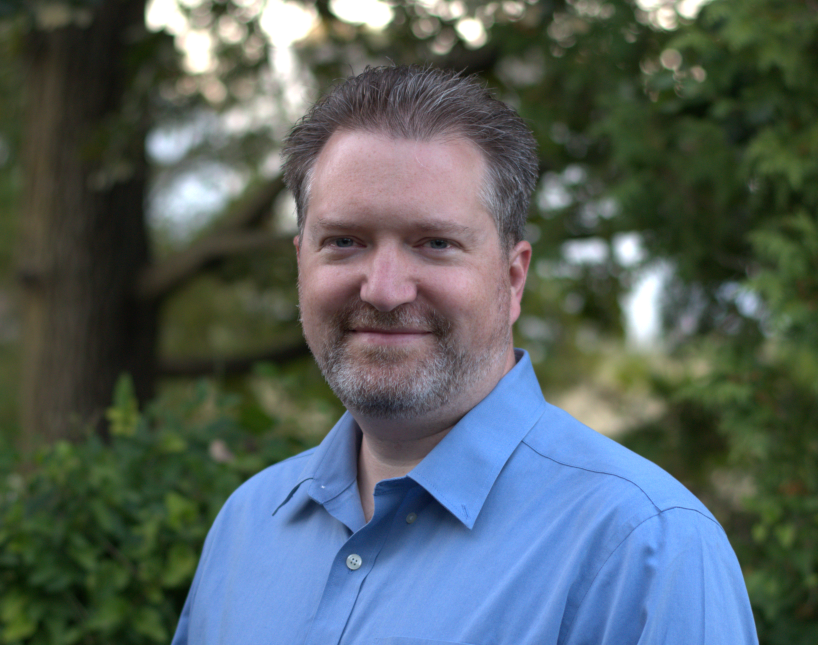
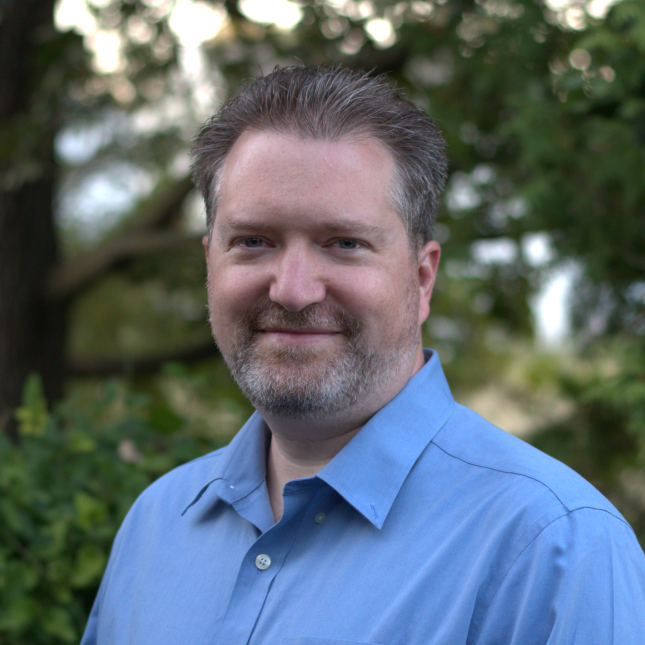
Content updates

diff --git a/ui/jmbsoftwaresolutions/app/page.tsx b/ui/jmbsoftwaresolutions/app/page.tsx
@@ -1,58 +1,93 @@
-
 import { AuthButton } from "@/components/auth/auth-button";
-import Image from 'next/image';
+import Image from "next/image";
 export default function Home() {
   return (
-    <main className="min-h-screen flex flex-col items-center">
-      <div className="flex-1 w-full flex flex-col items-center">
-        <nav className="w-full flex justify-center border-b border-b-foreground/10 h-16">
-          <div className="w-full flex justify-between items-center p-3 px-5 text-sm">
-            <div className="flex gap-5 items-center font-semibold text-lg md:text-4xl">
-              JMB Software Solutions
+    <main className="flex min-h-screen flex-col items-center p-4 mt-10">
+      <Image
+        className="rounded-full display-block"
+        src="/images/headshot.png"
+        alt="Headshot"
+        width={200}
+        height={200}
+      />
 
-            </div>
-            <AuthButton />
-          </div>
-        </nav>
-
-        <div className="flex-1 w-full flex justify-center">
-          <div className="w-full flex">
-            {/* Left sidebar / menu */}
-            <aside className="hidden md:block w-64 shrink-0 bg-background/50 p-4 static" aria-label="Primary sidebar">
-              <nav className="flex flex-col gap-2" aria-label="Main menu">
-                <a href="#" className="text-sm font-medium px-2 py-2 rounded hover:bg-foreground/5">Dashboard</a>
-                <a href="#" className="text-sm font-medium px-2 py-2 rounded hover:bg-foreground/5">Projects</a>
-                <a href="#" className="text-sm font-medium px-2 py-2 rounded hover:bg-foreground/5">Services</a>
-                <a href="#" className="text-sm font-medium px-2 py-2 rounded hover:bg-foreground/5">Contact</a>
-              </nav>
-            </aside>
-
-            <main className="flex flex-col mx-14 gap-6 px-4 w-full mt-10 ">
-              <div>
-                <Image
-                  className="rounded-full border float-right display-block"
-                  src="/images/headshot.png" // Path to your image
-                  alt="Headshot" // Essential for accessibility and SEO
-                  width={200} // Desired width
-                  height={200} // Desired height
-                />
-                <h1 className="text-xl font-bold">Welcome to JMB Software Solutions</h1>
-                <p className="text-lg text-muted-foreground">
-                  Your trusted partner for custom software development and IT solutions.
-
-                </p>
-
-              </div>
-
-
-            </main>
-          </div>
+      <h1 className="text-7xl">James Bales</h1>
+      <p className="mt-4 text-2xl  text-muted-foreground">
+        Software Engineer | Full Stack Developer
+      </p>
+      <p className="mt-2 text-xl">Reliable software solutions</p>
+      <p className="mt-2 text-xl">20 Years of Experience</p>
+      <p className="mt-2 text-xl">Dependable Results</p>
+      <h1 className="text-2xl mt-10 font-semibold">Skills & Technologies</h1>
+      <div className="grid grid-flow-col grid-rows-[100px_1fr] mt-6 gap-60 content-around">
+        <div>
+          <h1 className="text-xl font-semibold">Languages</h1>
+          <ul className="list-inside mt-2 list-none">
+            <li>JavaScript / TypeScript</li>
+            <li>Python</li>
+            <li>C#</li>
+            <li>C/C++</li>
+            <li>Java</li>
+            <li>PHP</li>
+            <li>HTML & CSS</li>
+            <li>SQL</li>
+          </ul>
         </div>
-
-        <footer className="w-full flex items-center justify-center border-t mx-auto text-center text-xs gap-8 py-16">
-
-
-        </footer>
+        <div>
+          <h1 className="text-xl font-semibold">Frameworks</h1>
+          <ul className="list-inside mt-2 list-none">
+            <li>React</li>
+            <li>Next.js</li>
+            <li>Nest.js</li>
+            <li>JQuery</li>
+            <li>Django</li>
+            <li>.NET Framework/.NET 5+</li>
+            <li>ASP.NET</li>
+            <li>Entity Framwork</li>
+          </ul>
+        </div>
+        <div>
+          <h1 className="text-xl font-semibold">Databases</h1>
+          <ul className="list-inside mt-2 list-none">
+            <li>MySQL</li>
+            <li>SQL Server</li>
+            <li>Oracle</li>
+            <li>Postgres</li>
+          </ul>
+        </div>
+        <div>
+          <h1 className="text-xl font-semibold">Hosting</h1>
+          <ul className="list-inside mt-2 list-none ">
+            <li>Docker</li>
+            <li>Kubernetes</li>
+            <li>Openshift</li>
+            <li>IIS</li>
+            <li>Weblogic</li>
+            <li>Apache</li>
+            <li>Apache Tomcat</li>
+            <li>Nginx</li>
+          </ul>
+        </div>
+        <div>
+          <h1 className="text-xl font-semibold">Architectures</h1>
+          <ul className="list-inside mt-2 list-none ">
+            <li>Microservices</li>
+            <li>Serverless</li>
+            <li>Monolithic</li>
+            <li>REST APIs</li>
+            <li>SOAP Web Serivces</li>
+            <li>Integrations</li>
+            <li>Single Page Applications</li>
+            <li>Model-View-Controller</li>
+          </ul>
+        </div>
+        <div>
+          <h1 className="text-xl font-semibold">Cloud</h1>
+          <ul className="list-inside mt-2 list-none ">
+            <li>Amazon Web Services</li>
+            <li>Azure</li>
+          </ul>
+        </div>
       </div>
     </main>
   );
